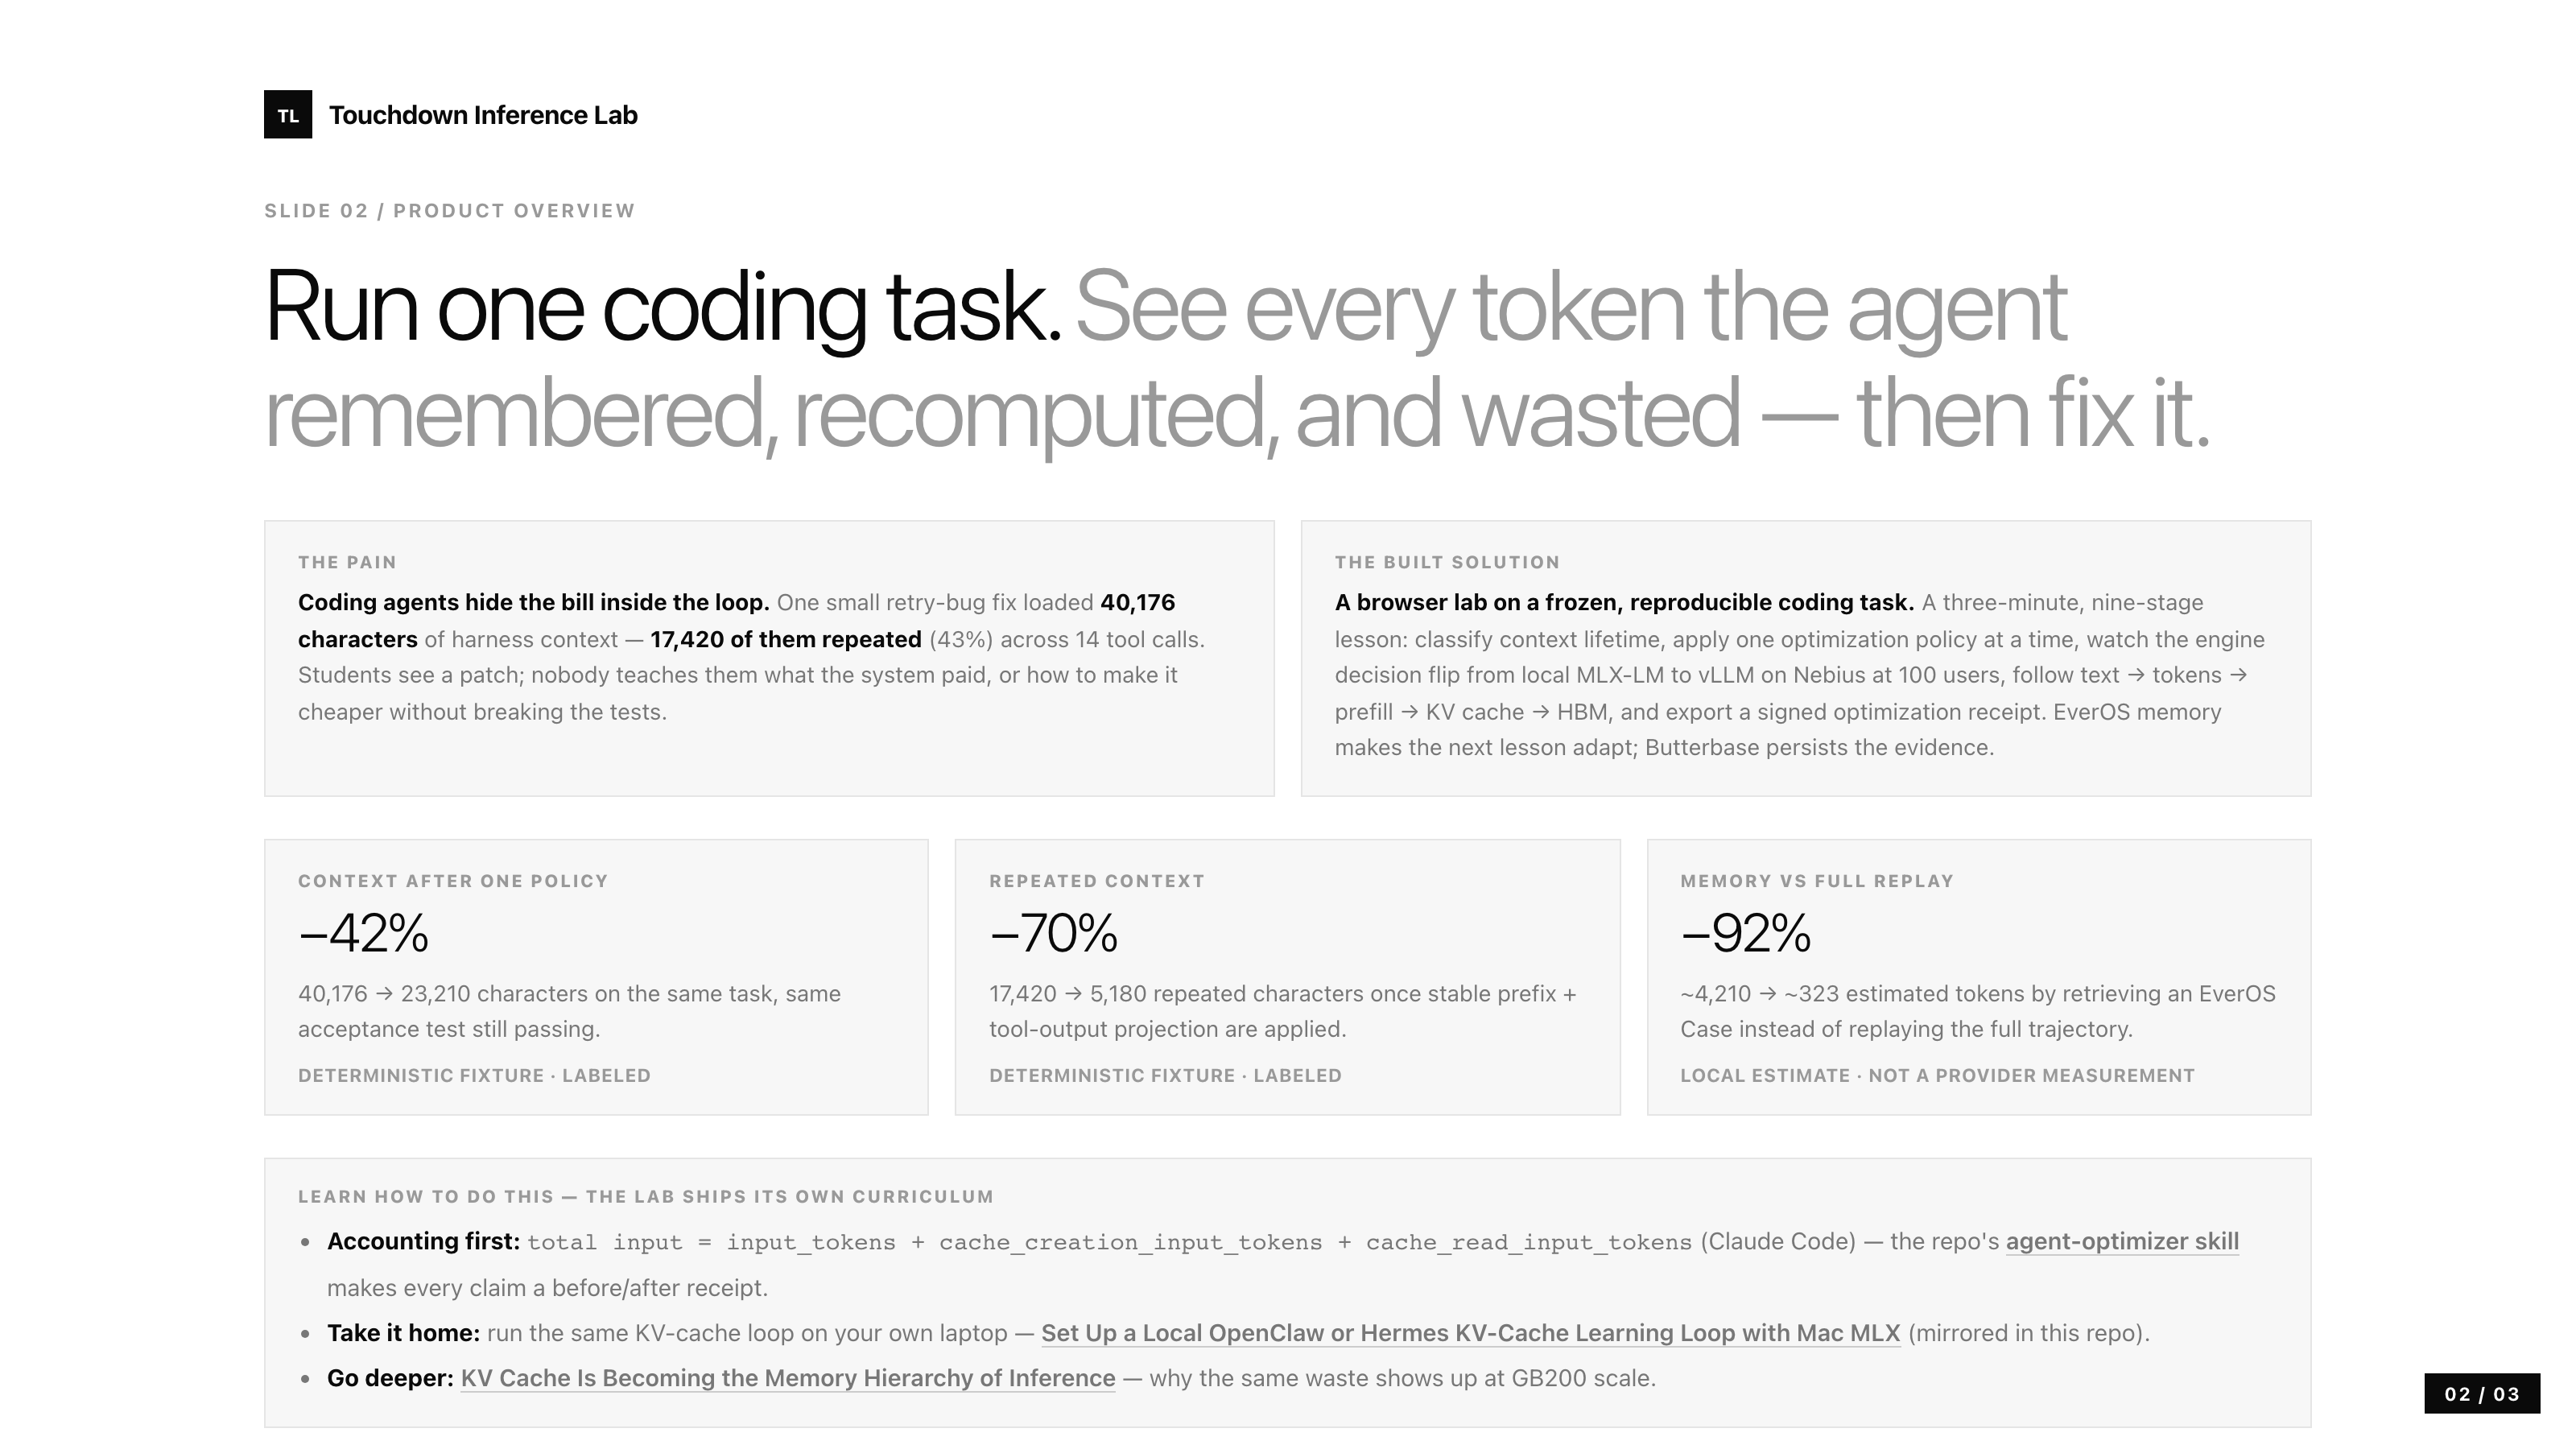
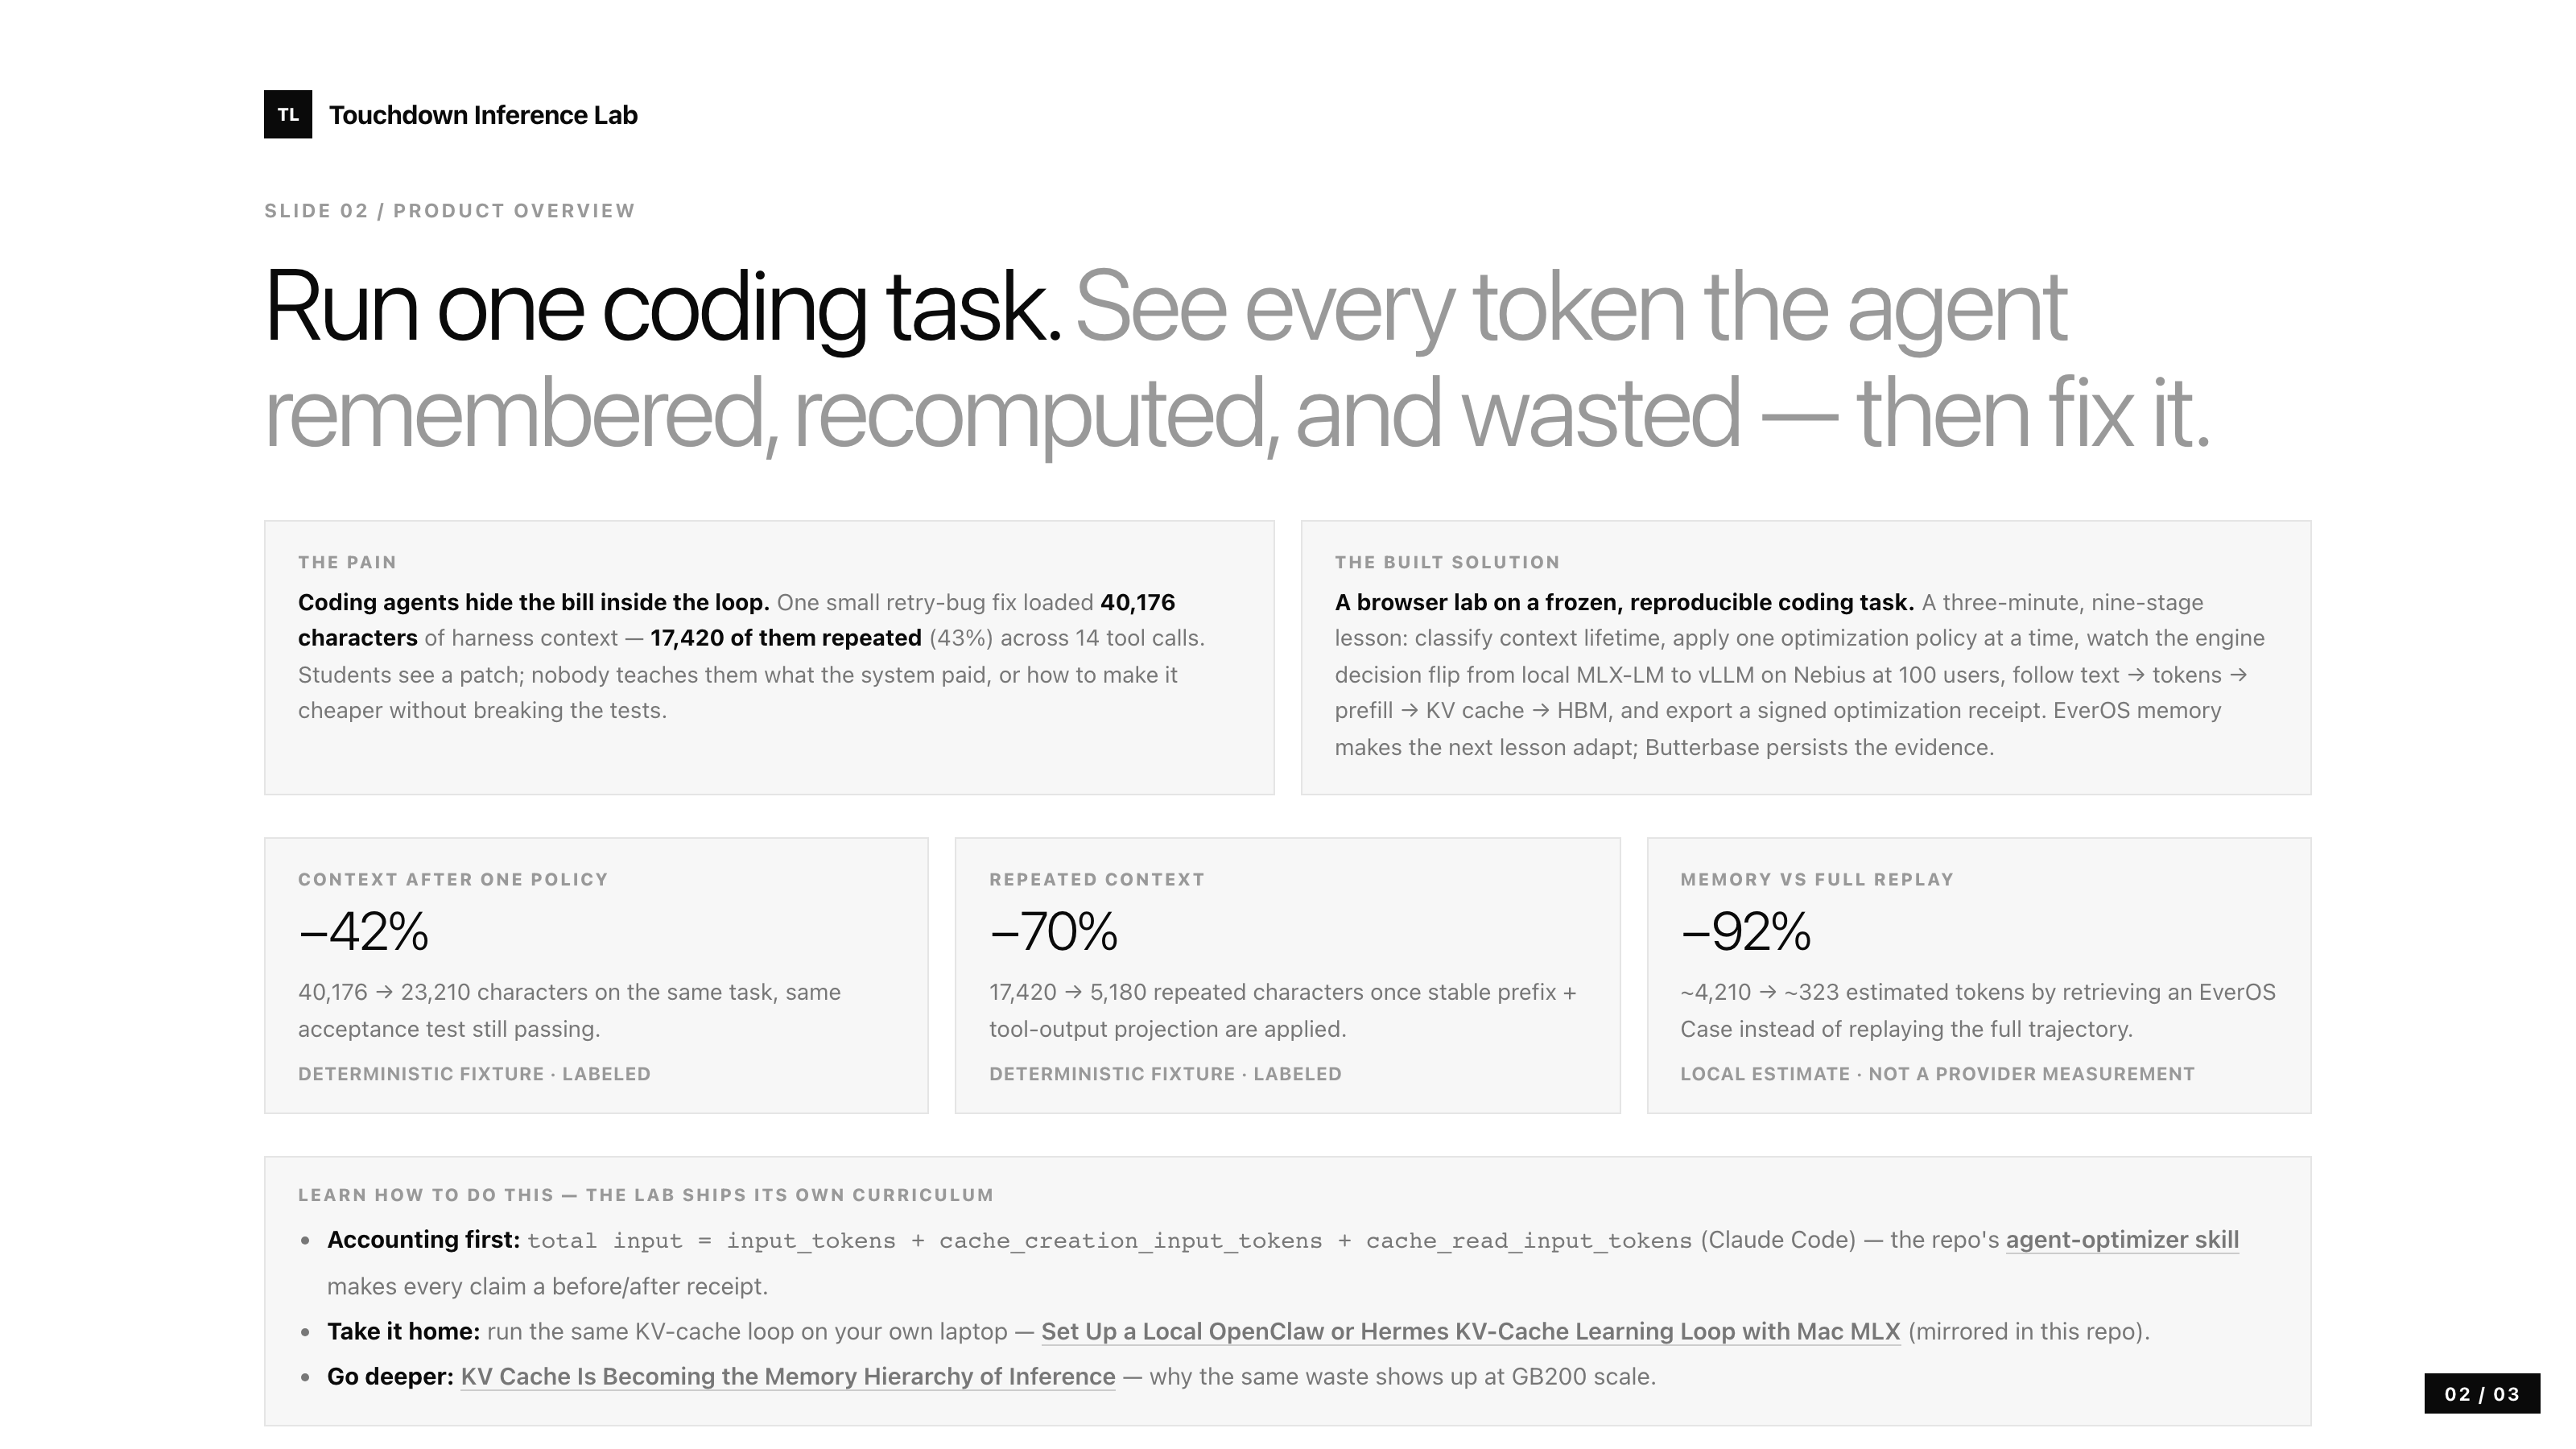
add AI EXPO Taiwan booth photo to slide 1
Bio row layout: intro and alignment quote on the left, the Global
Pavilion booth photo (exhibitor badge, Touchdown Labs banners) on the
right with an evidence caption. Exports regenerated.

diff --git a/pitch/slides.html b/pitch/slides.html
@@ -36,6 +36,11 @@ strong{color:var(--black)}
 .stat-note{font-size:.72rem;color:var(--gray-400);margin-top:10px;letter-spacing:.3px;text-transform:uppercase;font-weight:700}
 .quote{border-left:3px solid var(--black);padding:6px 0 6px 20px;margin:26px 0 0;max-width:880px}
 .quote p{color:var(--black);font-size:1.12rem;line-height:1.7;margin:0}
+.bio-row{display:grid;grid-template-columns:minmax(0,1fr) 300px;gap:26px;align-items:start}
+.bio-photo{margin:0;border:1px solid var(--gray-200);background:#f7f7f7;padding:8px}
+.bio-photo img{display:block;width:100%;height:300px;object-fit:cover;object-position:50% 32%}
+.bio-photo figcaption{margin-top:8px;color:var(--gray-400);font-size:.62rem;font-weight:700;letter-spacing:1px;text-transform:uppercase;line-height:1.5}
+@media (max-width:900px){.bio-row{grid-template-columns:1fr}.bio-photo img{height:260px}}
 .footline{position:absolute;left:4rem;right:4rem;bottom:26px;display:flex;justify-content:space-between;
   color:var(--gray-400);font-size:.78rem;border-top:1px solid var(--gray-200);padding-top:12px}
 .pill-row{display:flex;flex-wrap:wrap;gap:10px;margin-top:18px}
@@ -67,11 +72,24 @@ video{display:block;width:100%;max-width:1060px;background:var(--black);border:1
     <div class="brand"><span class="brand-mark">TL</span> Touchdown Labs</div>
     <p class="eyebrow">Slide 01 / Team Introduction</p>
     <h1>Touchdown Labs. <strong>Twenty months at the kernel layer.</strong></h1>
-    <p><strong>William Chen — Founder &amp; CEO, Touchdown Labs.</strong> Twenty months studying
-      <strong>CUDA kernel generation and AMD GPU kernels</strong> — through chip-design study, AMD developer
-      hackathons, and <strong>joint IC-design research with Taiwan's NYCU</strong> — building the
-      inference-optimization company that measures <strong>cost per successful AI task</strong> from the kernel
-      up to the token bill.</p>
+    <div class="bio-row">
+      <div>
+        <p><strong>William Chen — Founder &amp; CEO, Touchdown Labs.</strong> Twenty months studying
+          <strong>CUDA kernel generation and AMD GPU kernels</strong> — through chip-design study, AMD developer
+          hackathons, and <strong>joint IC-design research with Taiwan's NYCU</strong> — building the
+          inference-optimization company that measures <strong>cost per successful AI task</strong> from the kernel
+          up to the token bill.</p>
+        <div class="quote">
+          <p><strong>Team-to-problem alignment:</strong> our day job runs from CUDA kernels to token bills.
+          This lab teaches students the same discipline — on the coding agent they already use — with the same
+          evidence standard we hold our own kernel work to.</p>
+        </div>
+      </div>
+      <figure class="bio-photo">
+        <img src="assets/william-ai-expo-taiwan.jpg" alt="William Chen at the Touchdown Labs booth, AI TAIWAN 2026 Global Pavilion, wearing an exhibitor badge and talking with a visitor.">
+        <figcaption>AI EXPO Taiwan 2026 · Global Pavilion booth · exhibitor</figcaption>
+      </figure>
+    </div>
 
     <div class="grid cols-3">
       <div class="card">
@@ -93,12 +111,6 @@ video{display:block;width:100%;max-width:1060px;background:var(--black);border:1
         <p><strong>10 / 10 local tests passing</strong>, frozen acceptance contract, and a live Butterbase
         data write (receipt row <code style="font-size:.78em">e5ff8fc6…9454</code>). Fixture and live states are always labeled.</p>
       </div>
-    </div>
-
-    <div class="quote">
-      <p><strong>Team-to-problem alignment:</strong> our day job runs from CUDA kernels to token bills.
-      This lab teaches students the same discipline — on the coding agent they already use — with the same
-      evidence standard we hold our own kernel work to.</p>
     </div>
 
     <div class="footline"><span>Touchdown Labs · AI for Education Hackathon · Stanford · July 2026</span><span>01 / 03</span></div>